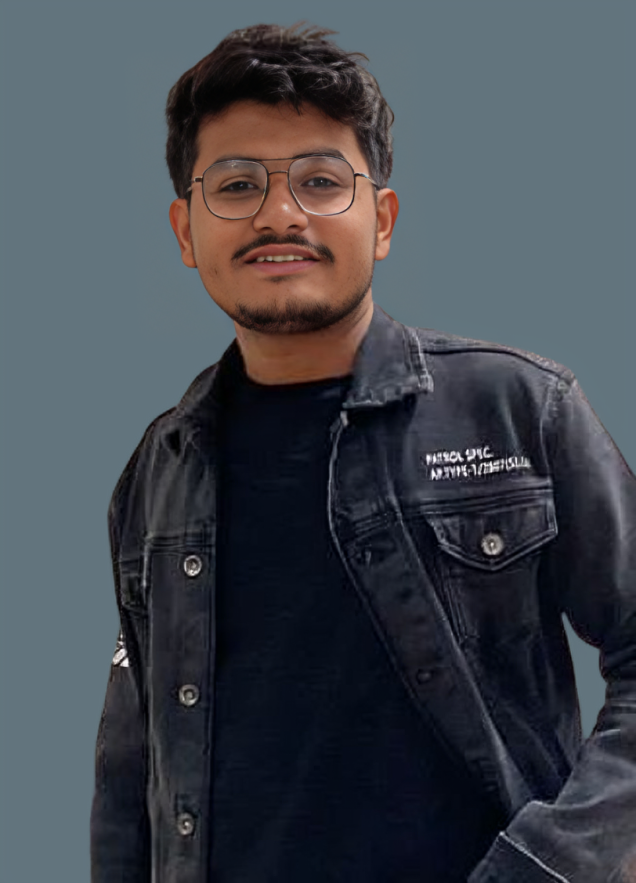
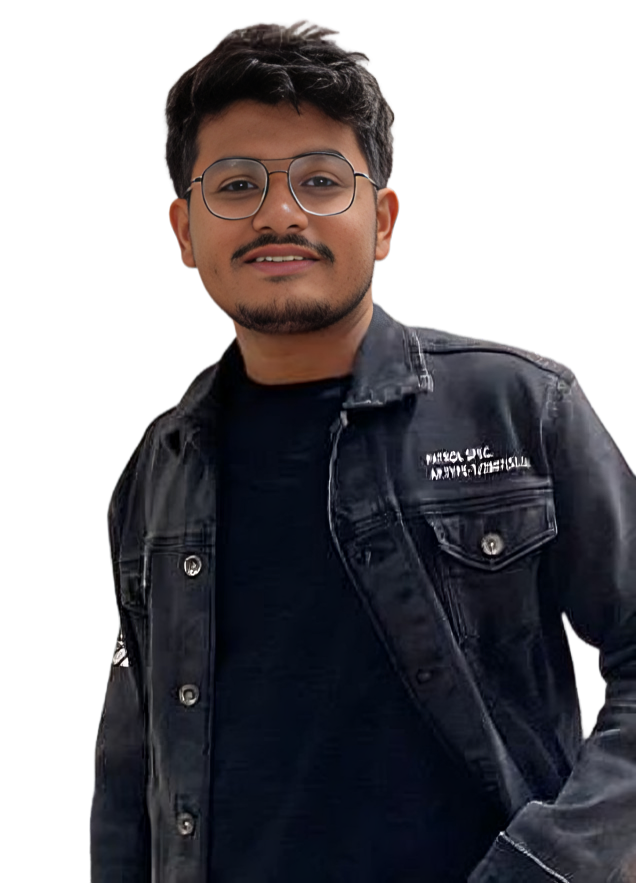
Changes

diff --git a/src/components/Home.jsx b/src/components/Home.jsx
@@ -33,13 +33,13 @@ function Home() {
   return (
     <div id="home" className="container hidden">
       <div className="cover-container d-flex p-3 mx-auto my-auto flex-column">
-        <div className="row flex-lg-row-reverse align-items-center justify-content-center g-5 py-5">
+        <div className="row flex-lg-row-reverse align-items-center justify-content-center g-5 py-5 ">
           <div className="col-lg-6 order-lg-1 col-md-12 mb-4 mb-lg-0 d-flex justify-content-center">
             <img
               src={img}
               className="img-fluid"
               style={{
-                width: "60%",
+                width: "70%",
                 maxWidth: "600px",
               }} // Adjust maxWidth as needed
               alt="Bootstrap Themes"

diff --git a/public/styles.css b/public/styles.css
@@ -21,18 +21,8 @@ body {
     #d0d0d4,
     #ffffff
   ); */
-  /* background: rgb(0, 138, 215);
-  background: radial-gradient(
-    circle,
-    #00476d 0%,
-    #00000098 100%
-  ); */
-  background: rgb(97, 116, 125);
-  background: linear-gradient(
-    0deg,
-    rgba(97, 116, 125, 1) 0%,
-    rgba(98, 117, 126, 1) 96%
-  );
+  background: rgb(0, 138, 215);
+  background: radial-gradient(circle, #00476d 0%, #00000098 100%);
 }
 
 .about-cover-container {
@@ -82,13 +72,8 @@ body {
   background-color: black;
 }
 
-img {
-  transition: transform 1s ease-out;
-}
-
 .img-fluid {
-  border-radius: 48%;
-  mix-blend-mode: exclusion;
+  mix-blend-mode: multiply;
 }
 
 @media (max-width: 767px) {

diff --git a/src/css/Home.css b/src/css/Home.css
@@ -6,6 +6,11 @@
   animation: blink 0.5s step-end infinite;
 }
 
+.img-fluid {
+  filter: drop-shadow(5px 5px 2px 2px black);
+  border-radius: 50%;
+}
+
 @keyframes blink {
   from,
   to {
